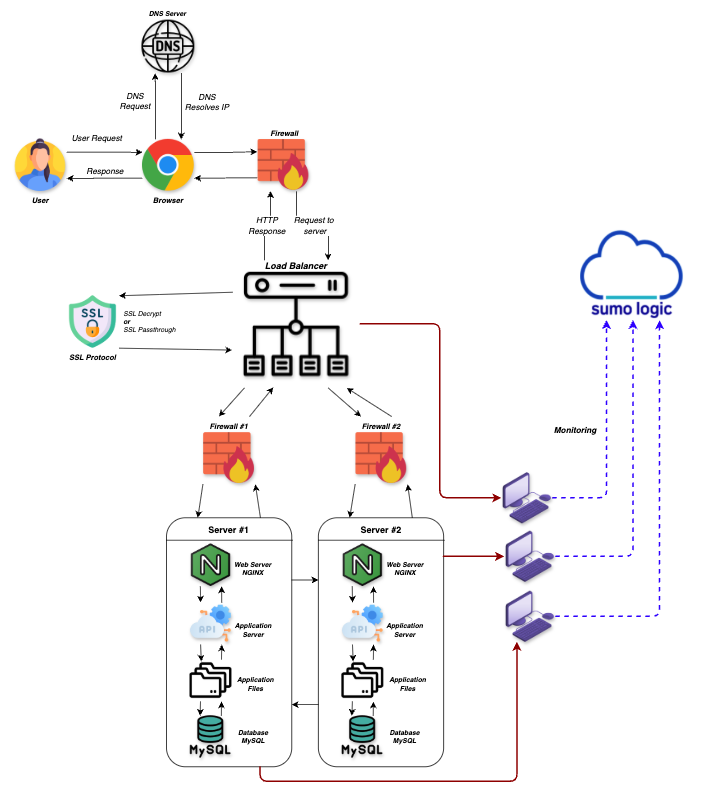
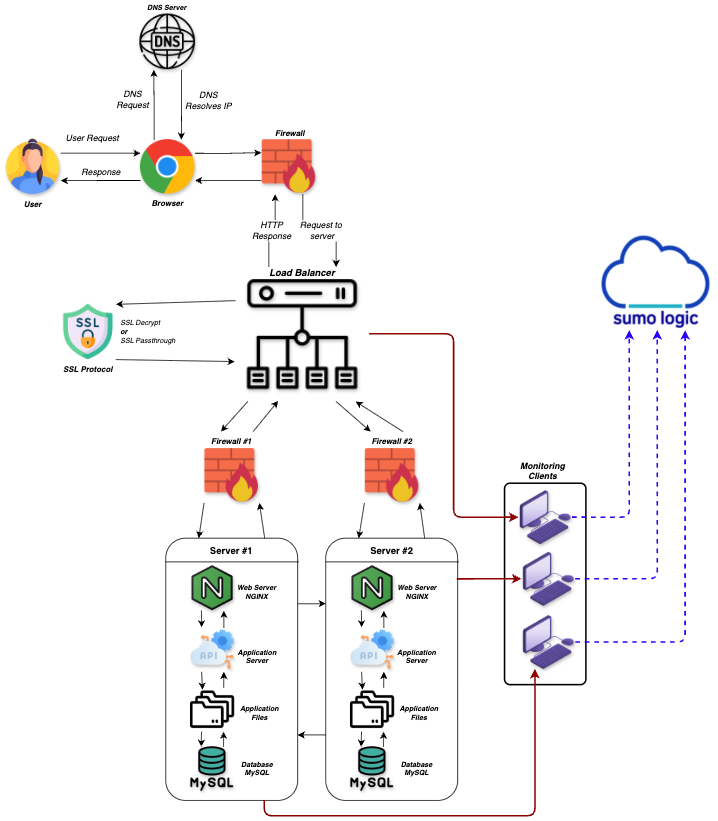
fix: addin details to images 2

Changed region(s): [[0.0, 0.0, 0.9944, 1.0], [0.9322, 0.7338, 0.9633, 0.7643]]

diff --git a/web_infrastructure_design/2-secured_and_monitored_web_infrastructure.md b/web_infrastructure_design/2-secured_and_monitored_web_infrastructure.md
@@ -1,2 +1,4 @@
 ### Secured and monitored web infrastructure
 
+
+- **Adding 3 firewalls,1 SSL certificate,3 monitoring clients**
